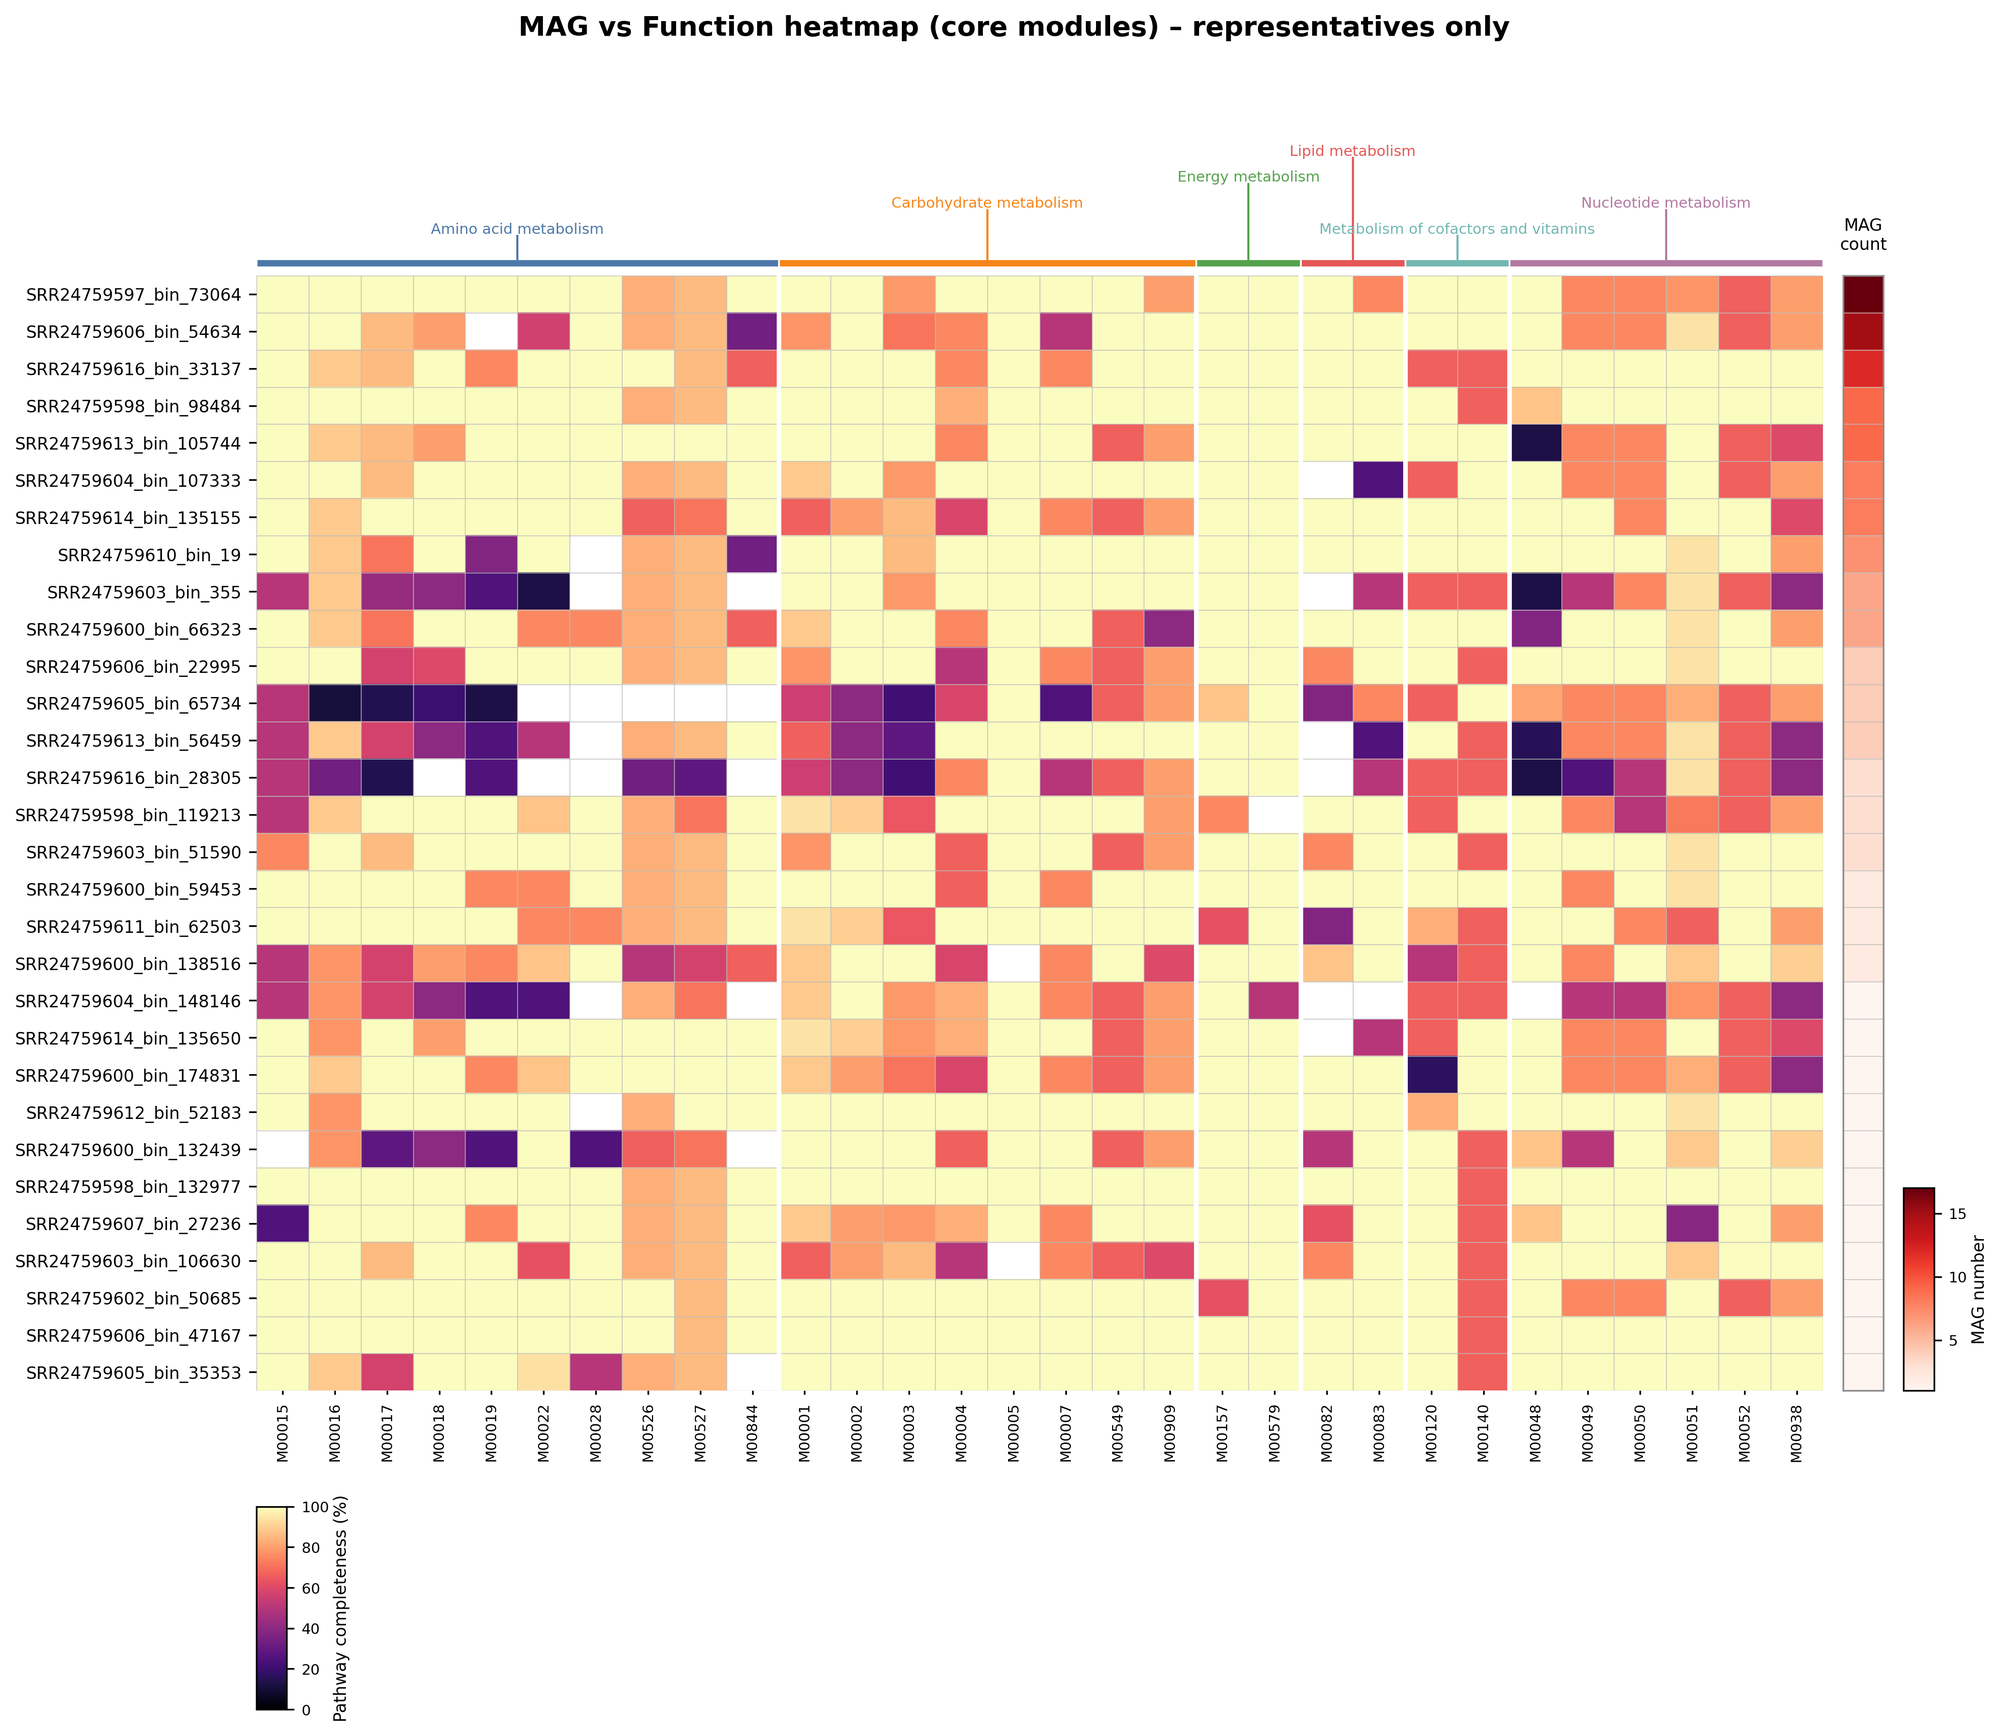
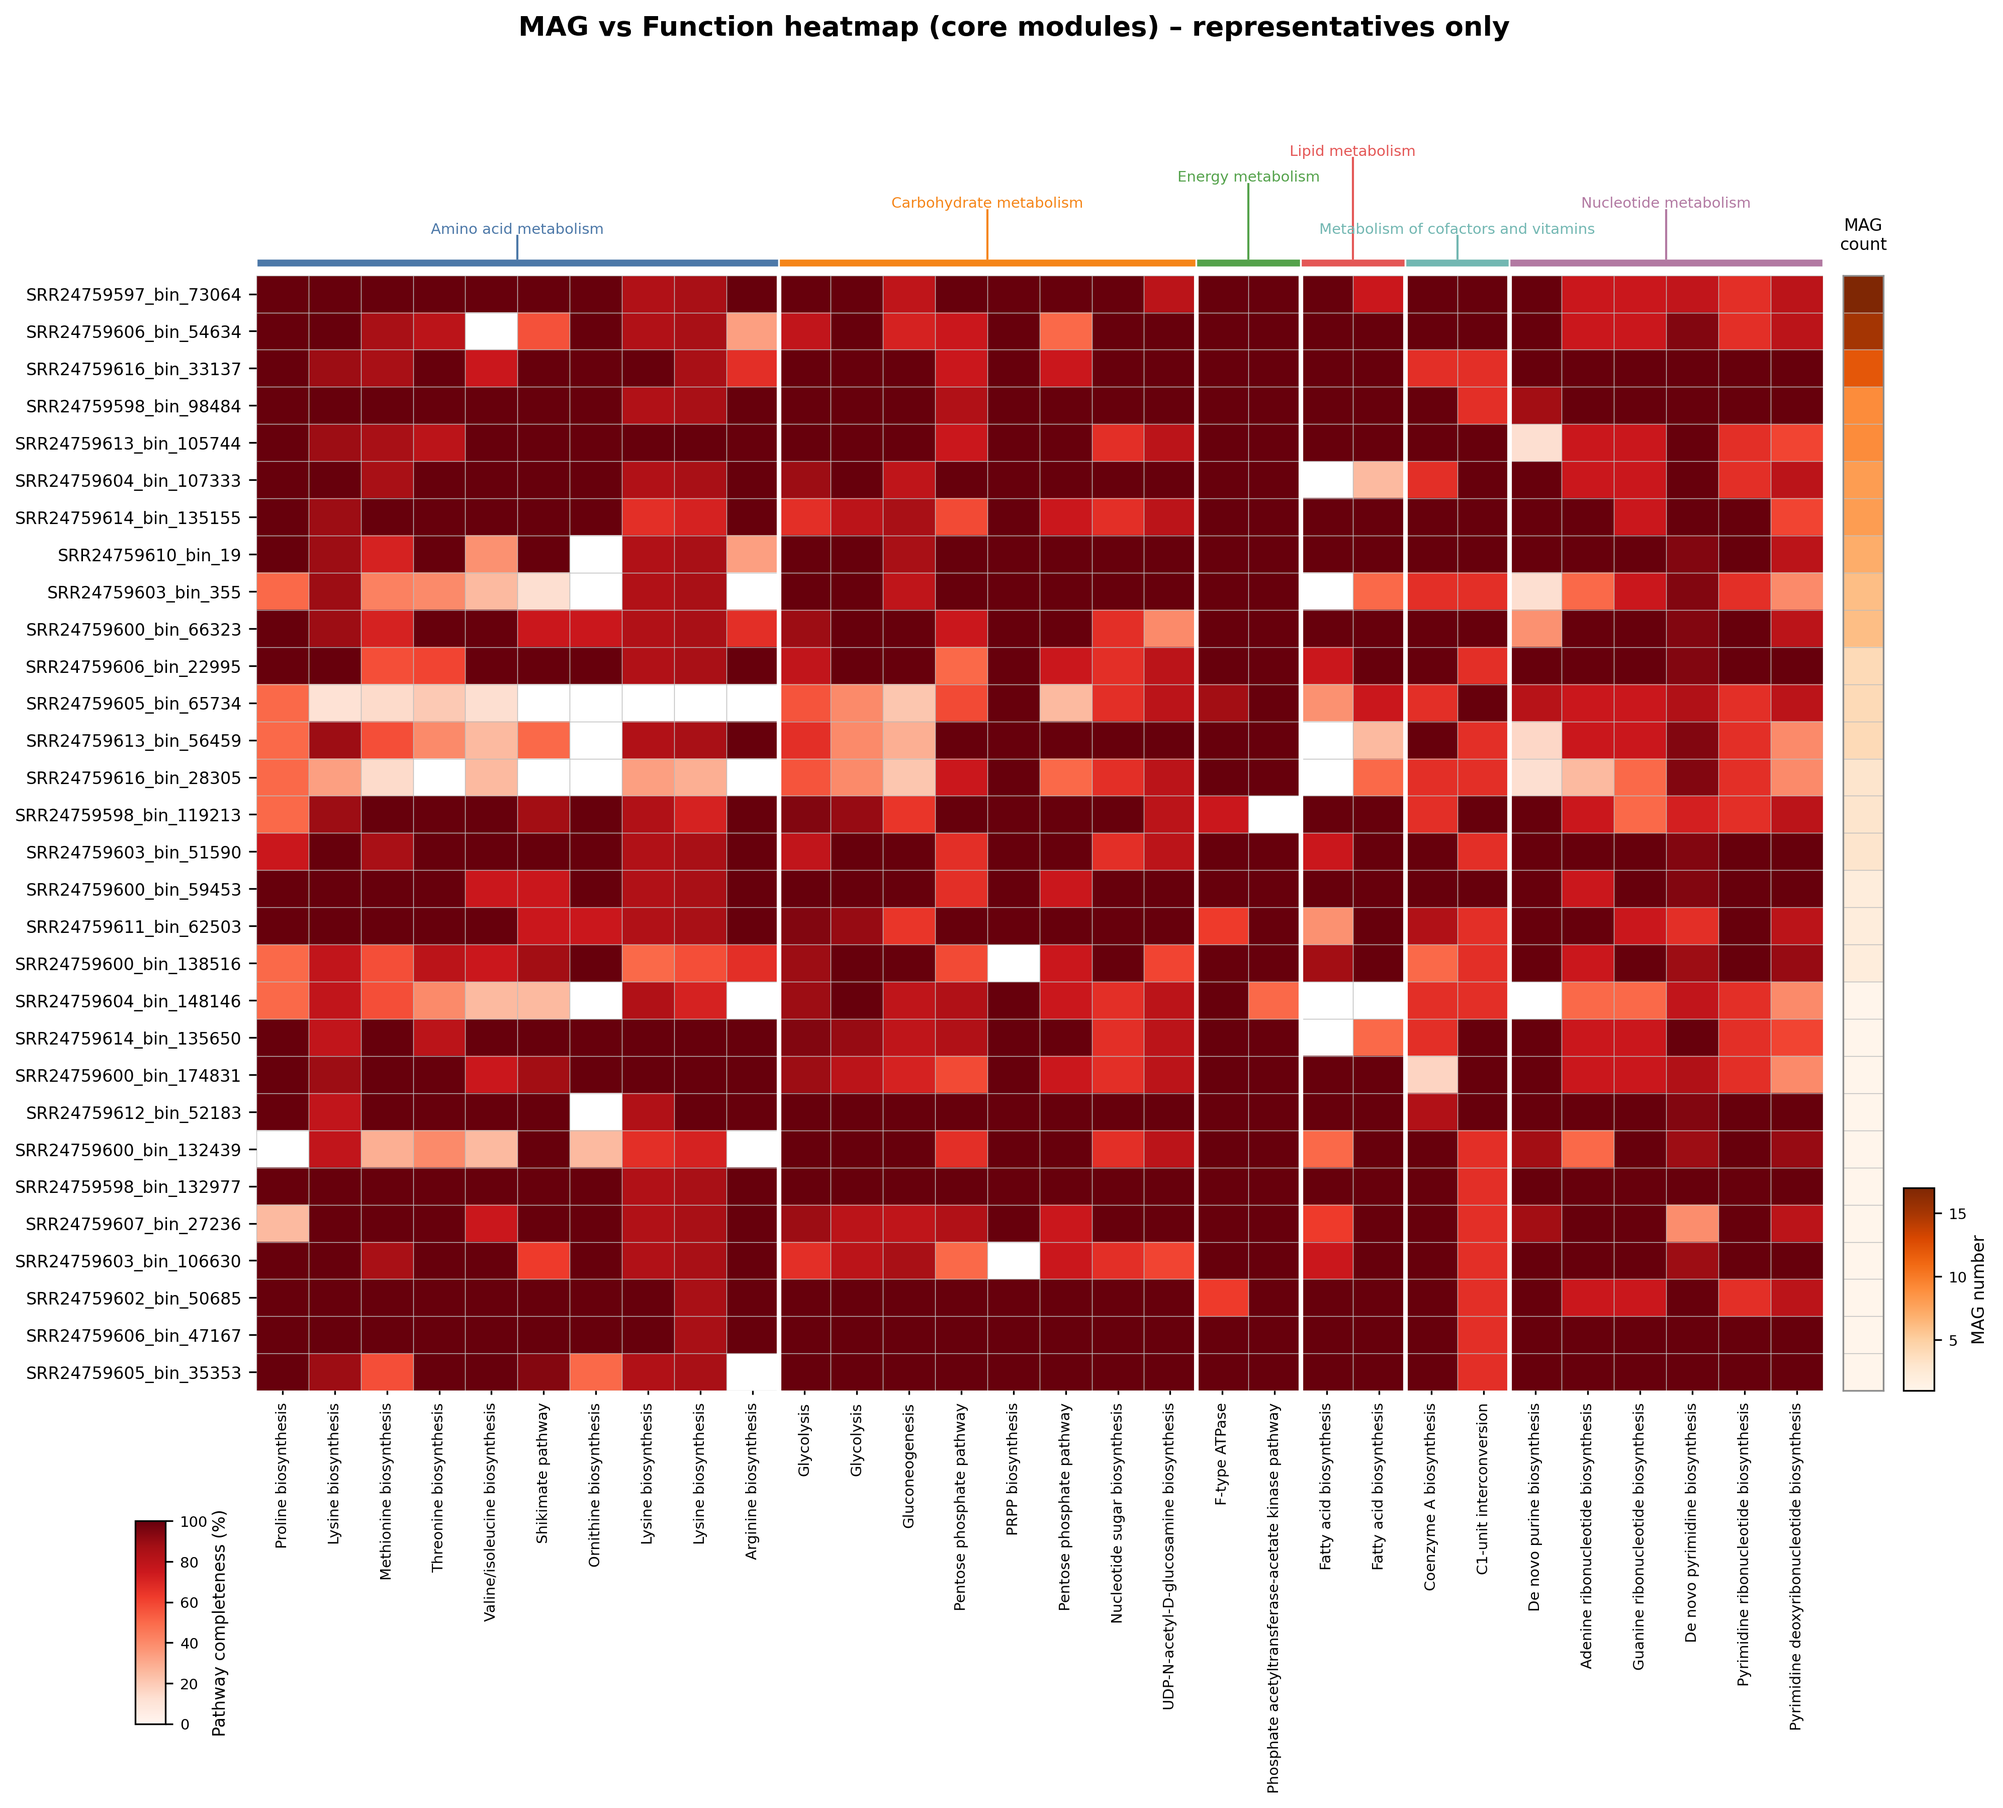
Adjusted pathway heatmap and drep-cluster-func

diff --git a/mags_visualization/drep_cluster_func.py b/mags_visualization/drep_cluster_func.py
@@ -24,6 +24,45 @@ def simplify_pathway_class(value: str) -> str:
     return "Unclassified"
 
 
+def simplify_module_name(name: str) -> str:
+    if pd.isna(name):
+        return ""
+
+    name = str(name)
+
+    # cut at "("
+    if "(" in name:
+        name = name.split("(")[0]
+
+    # cut at ","
+    if "," in name:
+        name = name.split(",")[0]
+    return name.strip()
+
+
+def build_module_labels(module_meta: pd.DataFrame, module_label: str = "id") -> list[str]:
+    """
+    x-axis labels for KEGG modules
+    module_label:
+    - id: module accession
+    - name: module name
+    - both: accession and name
+    """
+    if module_label == "id":
+        return module_meta["module_accession"].astype(str).tolist()
+
+    if module_label == "name":
+        return module_meta["pathway_name"].apply(simplify_module_name).tolist()
+
+    if module_label == "both":
+        return (
+            module_meta["module_accession"].astype(str)
+            + " | "
+            + module_meta["pathway_name"].apply(simplify_module_name)
+        ).tolist()
+    raise ValueError("module_label must be one of: id, name, both")
+
+
 def prepare_cluster_data(drep_df: pd.DataFrame, gtdb_df: pd.DataFrame, tax_levels, top_n: int, pathway_df=None):
     """Build table of top_n dRep cluster with their representatives and taxonomy."""
     drep = drep_df.copy()
@@ -187,7 +226,8 @@ def prepare_pathway_matrix(pathway_df: pd.DataFrame, representatives: list[str],
 
 def plot_single_functional(cluster_data: pd.DataFrame, drep: pd.DataFrame, total_clusters: int,
     heatmap_df: pd.DataFrame, module_meta: pd.DataFrame, class_blocks, output_path: str,
-    tax_levels, top_n: int, fmt: str, suffix: str, tax_levels_space: float = 0.3, fig_size=None):
+    tax_levels, top_n: int, fmt: str, suffix: str, tax_levels_space: float = 0.3, 
+    fig_size=None, module_label: str = "id"):
     """
     Create a single functional cluster plot:
     - horizontal bar chart (MAG counts per cluster)
@@ -310,7 +350,7 @@ def plot_single_functional(cluster_data: pd.DataFrame, drep: pd.DataFrame, total
     values = heatmap_display_df.to_numpy(dtype=float)
     masked = np.ma.masked_invalid(values)
 
-    cmap = cm.get_cmap("magma").copy()
+    cmap = cm.get_cmap("Reds").copy()
     cmap.set_bad(color="white")
     norm = Normalize(vmin=0, vmax=100)
 
@@ -329,10 +369,13 @@ def plot_single_functional(cluster_data: pd.DataFrame, drep: pd.DataFrame, total
     ax_heatmap.set_yticks([])
 
     ax_heatmap.set_xticks(np.arange(n_cols))
+
+    module_labels = build_module_labels(module_meta, module_label=module_label)
+
     ax_heatmap.set_xticklabels(
-        module_meta["module_accession"].tolist(),
+        module_labels,
         rotation=90,
-        fontsize=6 if n_cols > 25 else 7,
+        fontsize=6 if module_label in {"name", "both"} or n_cols > 25 else 7,
     )
     ax_heatmap.tick_params(axis="x", bottom=True, labelbottom=True, top=False, length=2)
 
@@ -407,7 +450,7 @@ def plot_single_functional(cluster_data: pd.DataFrame, drep: pd.DataFrame, total
 
     # ---- Colorbar ----
     pos = ax_heatmap.get_position()
-    cax = fig.add_axes([pos.x0, pos.y0 - 0.20, 0.02, 0.12])
+    cax = fig.add_axes([pos.x0 - 0.06, pos.y0 - 0.20, 0.02, 0.12])
     cb = fig.colorbar(im, cax=cax, orientation="vertical")
     cb.ax.tick_params(labelsize=7)
     cb.set_label("Pathway completeness (%)", fontsize=7, labelpad=2)
@@ -450,8 +493,9 @@ def plot_single_functional(cluster_data: pd.DataFrame, drep: pd.DataFrame, total
 
 # ---- Main plot function ----
 def drep_cluster_functional_plot(drep_df: pd.DataFrame, gtdb_df: pd.DataFrame, pathway_df: pd.DataFrame,
-                     output_path: str, tax_levels=("phylum", "genus"), top_n: int = 30, top_modules: int | None = 35, fmt: str = "png",
-                     mode: str = "mean", tax_levels_space: float = 0.3, fig_size=None):
+                     output_path: str, tax_levels=("phylum", "genus"), top_n: int = 30, top_modules: int | None = 35, 
+                     fmt: str = "png", mode: str = "mean", tax_levels_space: float = 0.3, 
+                     fig_size=None, module_label: str ="id"):
     """
     Create a dRep cluster plot with a functional kegg pathway heatmap.
 
@@ -528,7 +572,7 @@ def drep_cluster_functional_plot(drep_df: pd.DataFrame, gtdb_df: pd.DataFrame, p
     if mode in {"mean", "both"}:
         plot_modes.append(("mean", "core"))
     if mode in {"variance", "both"}:
-        plot_modes.append(("variance", "differrence"))
+        plot_modes.append(("variance", "difference"))
     
     for select_mode, suffix in plot_modes:
         heatmap_df_core, module_meta_core, class_blocks_core = prepare_pathway_matrix(
@@ -552,6 +596,7 @@ def drep_cluster_functional_plot(drep_df: pd.DataFrame, gtdb_df: pd.DataFrame, p
             suffix=suffix,
             tax_levels_space=tax_levels_space,
             fig_size=fig_size,
+            module_label=module_label,
         )
         outputs.append(out_file)
 

diff --git a/mags_visualization/pathway_module_heatmap.py b/mags_visualization/pathway_module_heatmap.py
@@ -76,6 +76,46 @@ def get_plot_matched_representatives(drep_df: pd.DataFrame, gtdb_df: pd.DataFram
 
     return cluster_data["representative"].tolist()
 
+
+def simplify_module_name(name: str) -> str:
+    if pd.isna(name):
+        return ""
+
+    name = str(name)
+
+    # cut at "("
+    if "(" in name:
+        name = name.split("(")[0]
+
+    # cut at ","
+    if "," in name:
+        name = name.split(",")[0]
+    return name.strip()
+
+
+def build_module_labels(module_meta: pd.DataFrame, module_label: str = "id") -> list[str]:
+    """
+    x-axis labels for KEGG modules
+    module_label:
+    - id: module accession
+    - name: module name
+    - both: accession and name
+    """
+    if module_label == "id":
+        return module_meta["module_accession"].astype(str).tolist()
+
+    if module_label == "name":
+        return module_meta["pathway_name"].apply(simplify_module_name).tolist()
+
+    if module_label == "both":
+        return (
+            module_meta["module_accession"].astype(str)
+            + " | "
+            + module_meta["pathway_name"].apply(simplify_module_name)
+        ).tolist()
+    raise ValueError("module_label must be one of: id, name, both")
+
+
 def prepare_heatmap_data(pathway_df: pd.DataFrame, top_modules: int | None = None,
     mode: str = "mean", representatives_df: pd.DataFrame = None,
     gtdb_df: pd.DataFrame = None, representatives_only: bool = False,
@@ -177,8 +217,8 @@ def prepare_heatmap_data(pathway_df: pd.DataFrame, top_modules: int | None = Non
 
 def pathway_module_heatmap(pathway_df: pd.DataFrame, output_path: str, top_modules: int | None = None,
     mode: str = "mean", fmt: str = "png", fig_size=None, show_module_labels: bool = True,
-    row_fontsize: int = 8, representatives_df: pd.DataFrame = None, gtdb_df: pd.DataFrame = None,
-    representatives_only: bool = False, top_representatives: int | None = None):
+    row_fontsize: int = 8, module_label: str = "id", representatives_df: pd.DataFrame = None, 
+    gtdb_df: pd.DataFrame = None, representatives_only: bool = False, top_representatives: int | None = None):
     """
     Create a heatmap shwoing pathway/module completeness across MAGs.
 
@@ -217,7 +257,7 @@ def pathway_module_heatmap(pathway_df: pd.DataFrame, output_path: str, top_modul
     values = heatmap_df.to_numpy(dtype=float)
     masked = np.ma.masked_invalid(values)
 
-    cmap = cm.get_cmap("magma").copy()
+    cmap = cm.get_cmap("Reds").copy()
     cmap.set_bad(color="white")
     norm = Normalize(vmin=0, vmax=100)
 
@@ -234,10 +274,12 @@ def pathway_module_heatmap(pathway_df: pd.DataFrame, output_path: str, top_modul
     # Module labels on x-axis if wanted
     ax.set_xticks(np.arange(n_cols))
     if show_module_labels:
+        module_labels = build_module_labels(module_meta, module_label=module_label)
+
         ax.set_xticklabels(
-            module_meta["module_accession"].tolist(),
+            module_labels,
             rotation=90,
-            fontsize=6 if n_cols > 30 else 7,
+            fontsize=7 if module_label in {"name", "both"} or n_cols > 30 else 7,
         )
     else:
         ax.set_xticklabels([])
@@ -317,7 +359,7 @@ def pathway_module_heatmap(pathway_df: pd.DataFrame, output_path: str, top_modul
 
         size_ax = fig.add_axes([pos.x1 + 0.01, pos.y0, 0.02, pos.height])
 
-        size_cmap = cm.get_cmap("Reds").copy()
+        size_cmap = cm.get_cmap("Oranges").copy()
         size_cmap.set_bad(color="white")
 
         size_im = size_ax.imshow(
@@ -361,7 +403,7 @@ def pathway_module_heatmap(pathway_df: pd.DataFrame, output_path: str, top_modul
 
     # ---- Colorbars ----
     pos = ax.get_position()
-    cax = fig.add_axes([pos.x0, pos.y0 - 0.22, 0.015, 0.14])
+    cax = fig.add_axes([pos.x0 - 0.06, pos.y0 - 0.23, 0.015, 0.14])
     cb = fig.colorbar(im, cax=cax, orientation="vertical")
     cb.ax.tick_params(labelsize=7)
     cb.set_label("Pathway completeness (%)", fontsize=8, labelpad=2)

diff --git a/mags_visualization/main.py b/mags_visualization/main.py
@@ -130,7 +130,7 @@ def load_dfs(coverm, checkm, checkm2, gtdb, drep, bakta=None, quast=None, metada
 
     # drep
     if drep is not None:
-        dfs["drep"] = read_table(drep, index_col=None, prefer_tsv=False)
+        dfs["drep"] = read_table(drep, index_col=None, prefer_tsv=None)
         print(f"[INFO] drep loaded:   {dfs['drep'].shape}")
 
         # dRep cleanup to ensure genome column exists
@@ -258,6 +258,8 @@ def build_parser():
     p.add_argument("--top_modules", type=int_or_none, default=35, dest="top_modules")
     p.add_argument("--mode", choices=["mean", "variance", "both"], default="mean", dest="mode",
                    help="mean = core modules, variance = differential modules, or both.")
+    p.add_argument("--module_label", choices=["id", "name", "both"], default="id",
+                   dest="module_label", help="Module labels on the x-axis: id, name or both")
     
     # ---- pathway-module-heatmap ----
     p = sub.add_parser("pathway-module-heatmap", help="Create a MAG vs pathway-module heatmap grouped by pathway_class.")
@@ -281,6 +283,8 @@ def build_parser():
     p.add_argument("--top_representatives", type=int, default=None, dest="top_representatives",
                help="Limit number of representative MAGs (e.g. top 30)")
     p.add_argument("--sort_by", choices=["cluster_size", "none"], default="cluster_size", help="How to select top representatives")
+    p.add_argument("--module_label", choices=["id", "name", "both"], default="id",
+                   dest="module_label", help="Module labels on the x-axis: id, name, or both.")
 
     # ---- comp-conta ----
     p = sub.add_parser("comp-conta", help="Create completeness/contamination plots.")
@@ -451,6 +455,7 @@ def run_drep_cluster_func(args):
         fmt=args.format,
         mode=args.mode,
         tax_levels_space=args.tax_levels_space,
+        module_label=args.module_label,
     )
 
 
@@ -477,6 +482,7 @@ def run_pathway_module_heatmap(args):
         fig_size=_fig_size_tuple(args),
         show_module_labels=args.show_module_labels,
         row_fontsize=args.row_fontsize,
+        module_label=args.module_label,
         representatives_df=dfs.get("drep"),
         gtdb_df=dfs.get("gtdb"),
         representatives_only=args.representatives_only,
